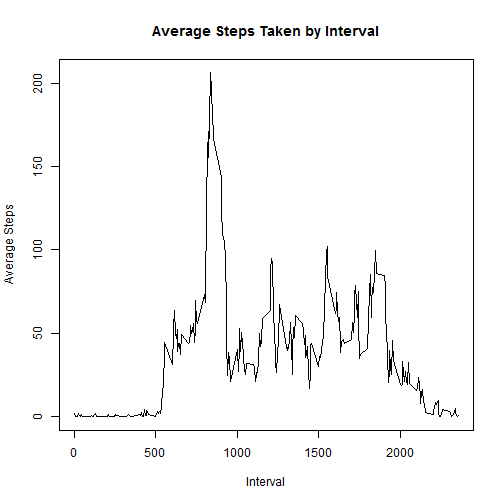
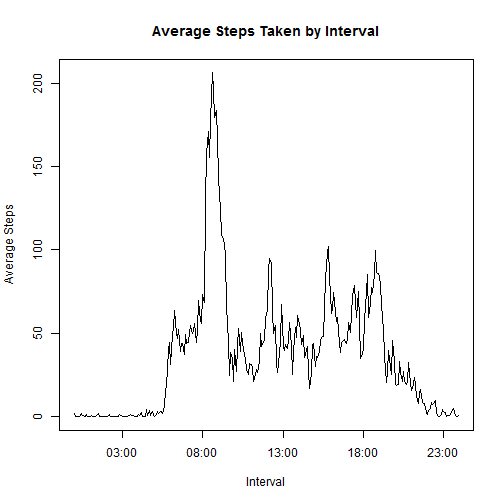
Update to Date formats

diff --git a/PA1_template.html b/PA1_template.html
@@ -212,16 +212,22 @@ directory. The following code reads the activity.csv data into r and displays a
 summary.</p>
 
 <pre><code class="r">act &lt;- read.csv(unzip(&quot;activity.zip&quot;))
+##format interval times
+hour &lt;- floor(act$interval/100)
+minute &lt;- act$interval - hour*100
+intc &lt;- paste(hour, minute, sep=&quot;:&quot;)
+int &lt;- as.POSIXct(intc, format=&quot;%R&quot;)
+act$interval &lt;- int
 summary(act)
 </code></pre>
 
-<pre><code>##      steps                date          interval     
-##  Min.   :  0.00   2012-10-01:  288   Min.   :   0.0  
-##  1st Qu.:  0.00   2012-10-02:  288   1st Qu.: 588.8  
-##  Median :  0.00   2012-10-03:  288   Median :1177.5  
-##  Mean   : 37.38   2012-10-04:  288   Mean   :1177.5  
-##  3rd Qu.: 12.00   2012-10-05:  288   3rd Qu.:1766.2  
-##  Max.   :806.00   2012-10-06:  288   Max.   :2355.0  
+<pre><code>##      steps                date          interval                  
+##  Min.   :  0.00   2012-10-01:  288   Min.   :2014-11-12 00:00:00  
+##  1st Qu.:  0.00   2012-10-02:  288   1st Qu.:2014-11-12 05:58:45  
+##  Median :  0.00   2012-10-03:  288   Median :2014-11-12 11:57:30  
+##  Mean   : 37.38   2012-10-04:  288   Mean   :2014-11-12 11:57:30  
+##  3rd Qu.: 12.00   2012-10-05:  288   3rd Qu.:2014-11-12 17:56:15  
+##  Max.   :806.00   2012-10-06:  288   Max.   :2014-11-12 23:55:00  
 ##  NA&#39;s   :2304     (Other)   :15840
 </code></pre>
 
@@ -260,13 +266,13 @@ plot(spi$interval, spi$steps, type =&quot;l&quot;, ylab = &quot;Average Steps&qu
      xlab = &quot;Interval&quot;, main = &quot;Average Steps Taken by Interval&quot;)
 </code></pre>
 
[2 lines of base64/hex data omitted]
 
 <pre><code class="r">spimax &lt;- spi[spi$steps == max(spi$steps), 1]
 </code></pre>
 
 <p>The 5 minute interval with the highest average number of steps is identified as: 
-835.</p>
+2014-11-12 08:35:00.</p>
 
 <h2>4. Imputing missing values</h2>
 
@@ -304,13 +310,13 @@ natestimp &lt;- sum(as.numeric(is.na(actidata$steps)))
 summary(actidata)
 </code></pre>
 
-<pre><code>##      steps                date          interval     
-##  Min.   :  0.00   2012-10-01:  288   Min.   :   0.0  
-##  1st Qu.:  0.00   2012-10-02:  288   1st Qu.: 588.8  
-##  Median :  0.00   2012-10-03:  288   Median :1177.5  
-##  Mean   : 37.38   2012-10-04:  288   Mean   :1177.5  
-##  3rd Qu.: 27.00   2012-10-05:  288   3rd Qu.:1766.2  
-##  Max.   :806.00   2012-10-06:  288   Max.   :2355.0  
+<pre><code>##      steps                date          interval                  
+##  Min.   :  0.00   2012-10-01:  288   Min.   :2014-11-12 00:00:00  
+##  1st Qu.:  0.00   2012-10-02:  288   1st Qu.:2014-11-12 05:58:45  
+##  Median :  0.00   2012-10-03:  288   Median :2014-11-12 11:57:30  
+##  Mean   : 37.38   2012-10-04:  288   Mean   :2014-11-12 11:57:30  
+##  3rd Qu.: 27.00   2012-10-05:  288   3rd Qu.:2014-11-12 17:56:15  
+##  Max.   :806.00   2012-10-06:  288   Max.   :2014-11-12 23:55:00  
 ##                   (Other)   :15840
 </code></pre>
 
@@ -343,8 +349,8 @@ because I esentially added 8 daysof data with step counts equal to the mean.</p>
 <h2>5. Are there differences in activty patterns between weekdays and weekends?</h2>
 
 <p>The activity pattern varries between weekdays and weekends; to see how much we 
-can look at a plot similar to the one developed in step 3 but seperate the 
-weekday from weekend values. The following code tags each observation as 
+can look at a plot similar to the one developed in step 3 but with the weekday 
+and weekend values seperated. The following code tags each observation as 
 ocurring on a weekday or weekend, aggregates the step observations on the 
 interval and daytype factor, and then plots each activity pattern. The plot 
 is constructed in lattice so the lattice package must be installed prior to 
@@ -360,11 +366,12 @@ wdvswe &lt;- aggregate(steps~interval + daytype, actidata, FUN = mean)
 ## create plot in lattice
 library(lattice)
 xyplot(steps~interval|daytype, data=wdvswe, type=&quot;l&quot;, layout=(c(1,2)), 
+       scales = list(format = &quot;%H:%M&quot;),
        ylab=&quot;Average Steps&quot;, xlab=&quot;Five Minute Interval&quot;, 
        main=&quot;Average Steps by Interval: Weekday vs. Weekend&quot;)
 </code></pre>
 
[2 lines of base64/hex data omitted]
 
 </body>
 

diff --git a/PA1_template.md b/PA1_template.md
@@ -17,17 +17,23 @@ summary.
 
 ```r
 act <- read.csv(unzip("activity.zip"))
+##format interval times
+hour <- floor(act$interval/100)
+minute <- act$interval - hour*100
+intc <- paste(hour, minute, sep=":")
+int <- as.POSIXct(intc, format="%R")
+act$interval <- int
 summary(act)
 ```
 
 ```
-##      steps                date          interval     
-##  Min.   :  0.00   2012-10-01:  288   Min.   :   0.0  
-##  1st Qu.:  0.00   2012-10-02:  288   1st Qu.: 588.8  
-##  Median :  0.00   2012-10-03:  288   Median :1177.5  
-##  Mean   : 37.38   2012-10-04:  288   Mean   :1177.5  
-##  3rd Qu.: 12.00   2012-10-05:  288   3rd Qu.:1766.2  
-##  Max.   :806.00   2012-10-06:  288   Max.   :2355.0  
+##      steps                date          interval                  
+##  Min.   :  0.00   2012-10-01:  288   Min.   :2014-11-12 00:00:00  
+##  1st Qu.:  0.00   2012-10-02:  288   1st Qu.:2014-11-12 05:58:45  
+##  Median :  0.00   2012-10-03:  288   Median :2014-11-12 11:57:30  
+##  Mean   : 37.38   2012-10-04:  288   Mean   :2014-11-12 11:57:30  
+##  3rd Qu.: 12.00   2012-10-05:  288   3rd Qu.:2014-11-12 17:56:15  
+##  Max.   :806.00   2012-10-06:  288   Max.   :2014-11-12 23:55:00  
 ##  NA's   :2304     (Other)   :15840
 ```
 
@@ -80,7 +86,7 @@ plot(spi$interval, spi$steps, type ="l", ylab = "Average Steps",
 spimax <- spi[spi$steps == max(spi$steps), 1]
 ```
 The 5 minute interval with the highest average number of steps is identified as: 
-835.
+2014-11-12 08:35:00.
 
 
 
@@ -124,13 +130,13 @@ summary(actidata)
 ```
 
 ```
-##      steps                date          interval     
-##  Min.   :  0.00   2012-10-01:  288   Min.   :   0.0  
-##  1st Qu.:  0.00   2012-10-02:  288   1st Qu.: 588.8  
-##  Median :  0.00   2012-10-03:  288   Median :1177.5  
-##  Mean   : 37.38   2012-10-04:  288   Mean   :1177.5  
-##  3rd Qu.: 27.00   2012-10-05:  288   3rd Qu.:1766.2  
-##  Max.   :806.00   2012-10-06:  288   Max.   :2355.0  
+##      steps                date          interval                  
+##  Min.   :  0.00   2012-10-01:  288   Min.   :2014-11-12 00:00:00  
+##  1st Qu.:  0.00   2012-10-02:  288   1st Qu.:2014-11-12 05:58:45  
+##  Median :  0.00   2012-10-03:  288   Median :2014-11-12 11:57:30  
+##  Mean   : 37.38   2012-10-04:  288   Mean   :2014-11-12 11:57:30  
+##  3rd Qu.: 27.00   2012-10-05:  288   3rd Qu.:2014-11-12 17:56:15  
+##  Max.   :806.00   2012-10-06:  288   Max.   :2014-11-12 23:55:00  
 ##                   (Other)   :15840
 ```
 
@@ -167,8 +173,8 @@ because I esentially added 8 daysof data with step counts equal to the mean.
 ## 5. Are there differences in activty patterns between weekdays and weekends?
 
 The activity pattern varries between weekdays and weekends; to see how much we 
-can look at a plot similar to the one developed in step 3 but seperate the 
-weekday from weekend values. The following code tags each observation as 
+can look at a plot similar to the one developed in step 3 but with the weekday 
+and weekend values seperated. The following code tags each observation as 
 ocurring on a weekday or weekend, aggregates the step observations on the 
 interval and daytype factor, and then plots each activity pattern. The plot 
 is constructed in lattice so the lattice package must be installed prior to 
@@ -186,6 +192,7 @@ wdvswe <- aggregate(steps~interval + daytype, actidata, FUN = mean)
 ## create plot in lattice
 library(lattice)
 xyplot(steps~interval|daytype, data=wdvswe, type="l", layout=(c(1,2)), 
+       scales = list(format = "%H:%M"),
        ylab="Average Steps", xlab="Five Minute Interval", 
        main="Average Steps by Interval: Weekday vs. Weekend")
 ```
